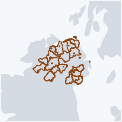
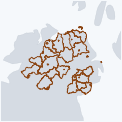
Tighten regional Browse thumbnail framing

diff --git a/scripts/regen-thumbnails.py b/scripts/regen-thumbnails.py
@@ -32,6 +32,9 @@ TARGET_SRS = 'EPSG:3857'  # Web Mercator - matches normal web-map appearance for
 DEFAULT_MIN_CONTEXT_SPAN = 260000  # metres: contextual regional frame without shrinking features too far
 ALL_IRELAND_MIN_CONTEXT_SPAN = 520000
 LOCAL_MIN_CONTEXT_SPAN = 90000     # metres: keeps local open-data layers legible
+REGIONAL_ADMIN_MIN_CONTEXT_SPAN = 170000
+REGIONAL_ADMIN_MAX_CONTEXT_SPAN = 500000
+REGIONAL_ADMIN_FEATURE_FOOTPRINT = 0.78
 MAX_CONTEXT_SPAN = 680000          # cap locator context so feature footprints stay dominant
 
 EMPTY_GEOMS = {'polys': [], 'lines': [], 'points': []}
@@ -254,6 +257,12 @@ def compute_bounds(geoms):
         return None
     return (min(all_x), min(all_y), max(all_x), max(all_y))
 
+def _cap_to_feature_footprint(span, feature_span, min_footprint):
+    """Prevent locator context from making the target layer visually secondary."""
+    if feature_span <= 0 or min_footprint <= 0:
+        return span
+    return min(span, feature_span / min_footprint)
+
 def context_span(map_config, feature_span):
     """Pick an adaptive viewport size so grey land context is recognizable.
 
@@ -269,6 +278,14 @@ def context_span(map_config, feature_span):
         'dún laoghaire', 'local authority open data', 'open data'
     )):
         return min(max(feature_span * 1.65, LOCAL_MIN_CONTEXT_SPAN), 220000)
+    if any(token in text for token in (
+        'admin-areas', 'administrative areas', 'historic administrative'
+    )):
+        span = min(
+            max(feature_span * 1.24, REGIONAL_ADMIN_MIN_CONTEXT_SPAN),
+            REGIONAL_ADMIN_MAX_CONTEXT_SPAN,
+        )
+        return _cap_to_feature_footprint(span, feature_span, REGIONAL_ADMIN_FEATURE_FOOTPRINT)
     if any(token in text for token in (
         'all-ireland', 'all ireland', 'ireland', 'counties', 'provinces',
         'dail', 'dÃ¡il', 'european parliament'

diff --git a/tasks/todo.md b/tasks/todo.md
@@ -3626,3 +3626,19 @@ Add election entries to /test2
   - Completed: representative thumbnails were regenerated and visually inspected: `admin-areas-1924-04-01.webp` now has tighter NI feature framing with grey Britain/Ireland context; `counties-ireland-1927.webp` remains an all-island map with visible grey coastline context.
   - Completed: Browse map detail pages now use a compact map overview block and table-like metadata groups instead of sparse mini-cards.
   - Verification evidence: `node --check browse/browse.js` passed; `python -m py_compile scripts/regen-thumbnails.py` passed; `npm run build:browse` passed; `npm run build` passed after approved esbuild spawn escalation; `npm run check` passed; local static HTTP check returned 200.
+
+# Fix residual empty space in Browse thumbnails
+- [x] Record correction
+  - User showed that `admin-areas-1924-04-01` still has too much empty land/sea around the actual features despite the adaptive context fix.
+  - Correction goal: keep grey land context visible while making the target map features visually dominant at the displayed thumbnail size.
+- [x] Implement feature-footprint framing
+  - Add a tighter context profile for regional/historic administrative maps and an explicit minimum feature-footprint target.
+- [x] Regenerate and inspect representative thumbnails
+  - Regenerate `admin-areas-1924-04-01` and related thumbnail outputs, then inspect the actual image.
+- [x] Verify
+  - Run syntax checks and Browse/build checks that cover thumbnail generation.
+- [x] Review
+  - Document changed files, verification evidence, and any remaining limits.
+  - Completed: `scripts/regen-thumbnails.py` now applies a specific regional administrative thumbnail profile with an explicit feature-footprint cap, reducing the representative viewport from about 619 km to about 439 km.
+  - Completed: regenerated `assets/thumbnails/admin-areas-1924-04-01.png`, `.webp`, and `-60.webp`; visual inspection shows the NI boundaries now dominate the thumbnail while retaining grey Ireland/Britain context.
+  - Verification evidence: `python -m py_compile scripts/regen-thumbnails.py` passed; `npm run build:browse` passed; generated Browse JSON churn was reverted; `npm run check` passed.

diff --git a/tasks/lessons.md b/tasks/lessons.md
@@ -1821,3 +1821,12 @@ ode --check ... 2>&1 on every startup-critical module and inspect the edited blo
   2) cap all-island/regional locator context so the feature footprint remains visually dominant,
   3) visually inspect both the grey underlay shape and the feature-to-canvas ratio before committing,
   4) do not regenerate the full thumbnail set from a representative fix until the representative thumbnail passes both checks.
+
+### 137) Thumbnail framing needs an explicit feature-footprint target
+- Mistake pattern: Treating adaptive regional context as sufficient when the rendered thumbnail still leaves too much empty canvas around the actual boundary features.
+- Impact: The land underlay is recognizable, but the item being browsed is visually secondary and the thumbnail still looks poorly framed at catalogue size.
+- Guardrail:
+  1) add a measurable feature pixel-footprint target for representative thumbnails, not only a context-span heuristic,
+  2) regional maps such as NI-only administrative areas should use a tighter locator frame than all-island maps,
+  3) validate generated thumbnails at their displayed Browse size as well as at source asset size,
+  4) if a feature occupies too little of the square canvas, reduce context or shift to a tighter crop before broad regeneration.
